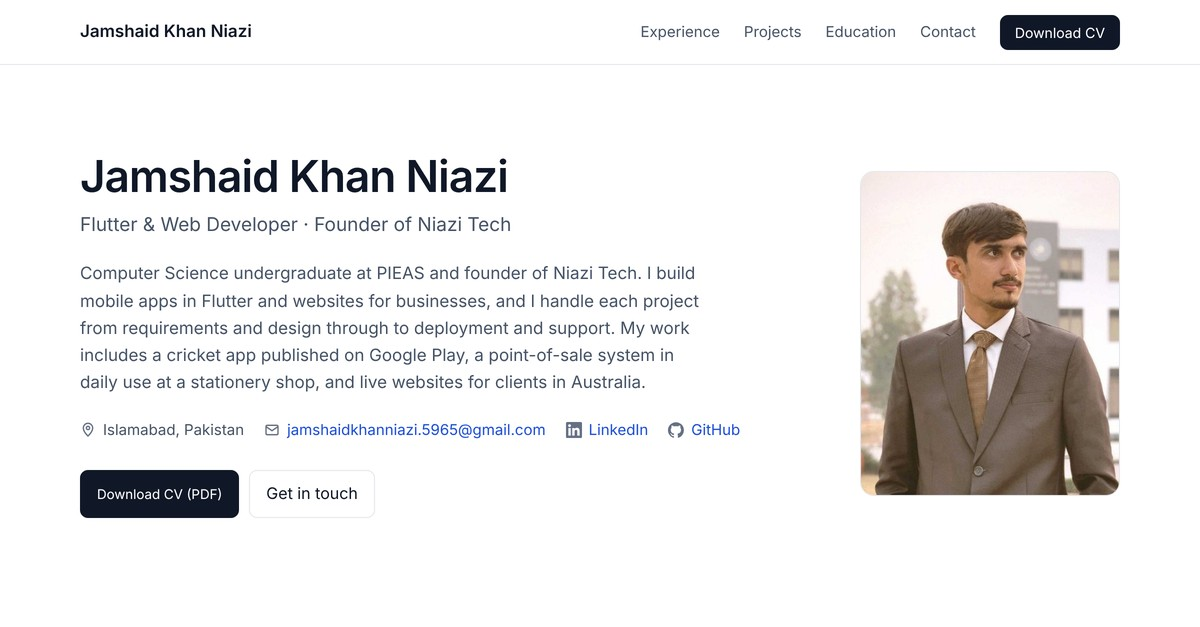
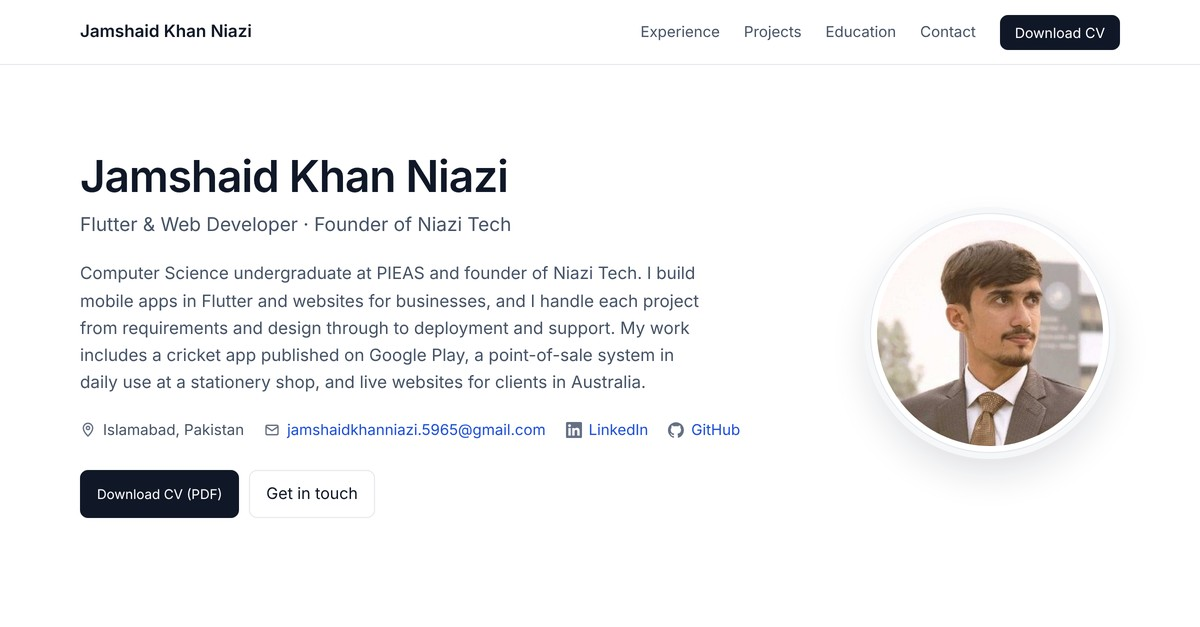
Circular profile photo frame

Changed region(s): [[0.7092, 0.303, 0.9558, 0.8182], [0.7092, 0.2727, 0.74, 0.303]]

diff --git a/index.html b/index.html
@@ -62,8 +62,8 @@ img{display:block;max-width:100%}
 .facts li{display:flex;align-items:center;gap:7px}
 .facts svg{width:16px;height:16px;color:var(--ink-3)}
 .cta{display:flex;flex-wrap:wrap;gap:10px}
-.portrait{border-radius:14px;overflow:hidden;border:1px solid var(--line);aspect-ratio:4/5;background:var(--soft)}
-.portrait img{width:100%;height:100%;object-fit:cover}
+.portrait{width:240px;aspect-ratio:1;border-radius:50%;padding:6px;background:#fff;border:1px solid var(--line);box-shadow:0 0 0 6px var(--soft),0 18px 40px rgba(16,24,40,.14);justify-self:center}
+.portrait img{width:100%;height:100%;border-radius:50%;object-fit:cover}
 
 /* sections */
 section{padding:64px 0;border-bottom:1px solid var(--line)}
@@ -152,7 +152,7 @@ dialog::backdrop{background:rgba(16,24,40,.5)}
 
 @media(max-width:860px){
   .intro .wrap{grid-template-columns:1fr;gap:32px}
-  .portrait{max-width:240px;order:-1}
+  .portrait{width:180px;order:-1;justify-self:start}
   .cols,.contact .wrap{grid-template-columns:1fr;gap:40px}
   .xp{grid-template-columns:1fr;gap:4px}
 }
@@ -240,7 +240,7 @@ dialog::backdrop{background:rgba(16,24,40,.5)}
         <a class="btn" href="#contact">Get in touch</a>
       </div>
     </div>
-    <div class="portrait"><img src="assets/portrait.jpg" alt="Jamshaid Khan Niazi" width="480" height="600"></div>
+    <div class="portrait"><img src="assets/headshot.jpg" alt="Jamshaid Khan Niazi" width="400" height="400"></div>
   </div>
 </div>
 
